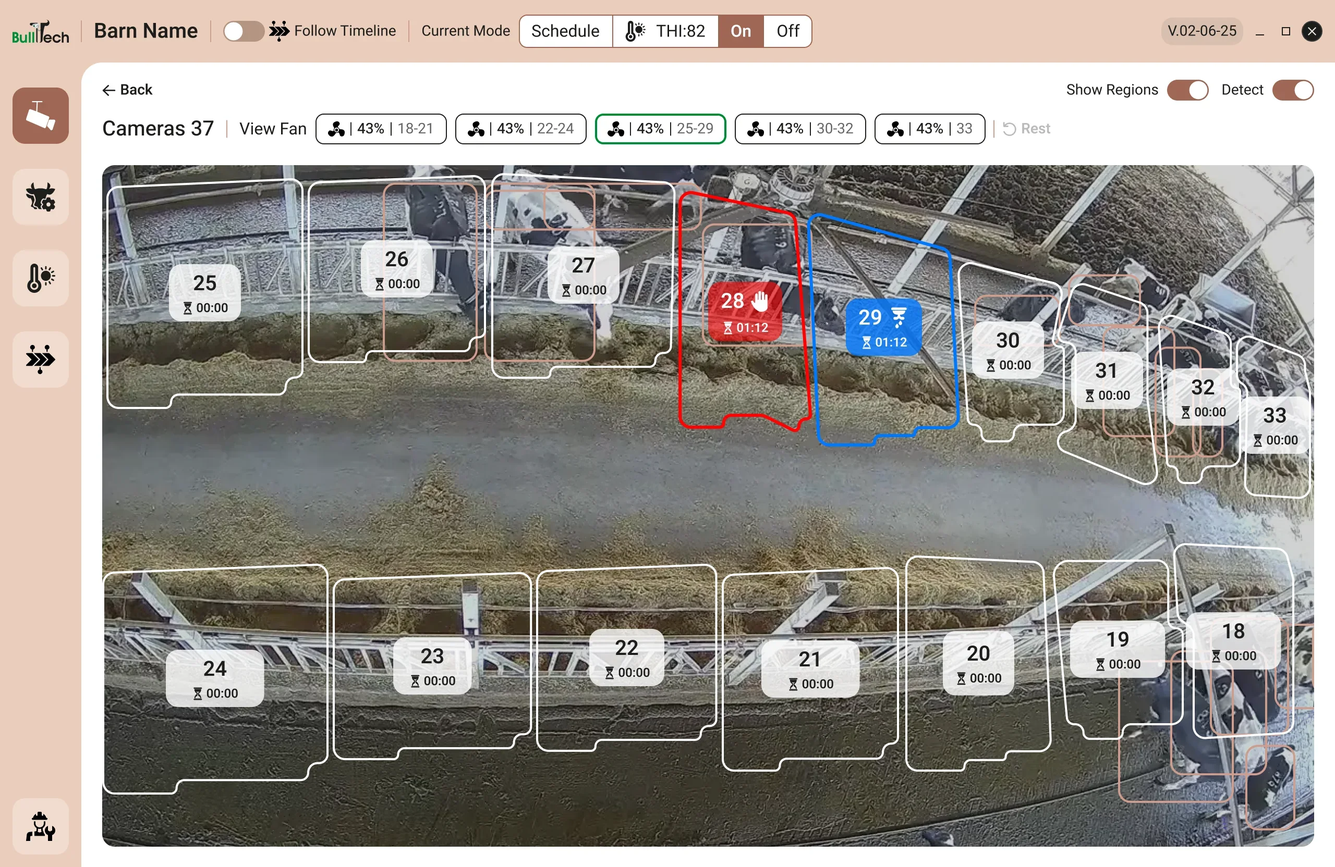
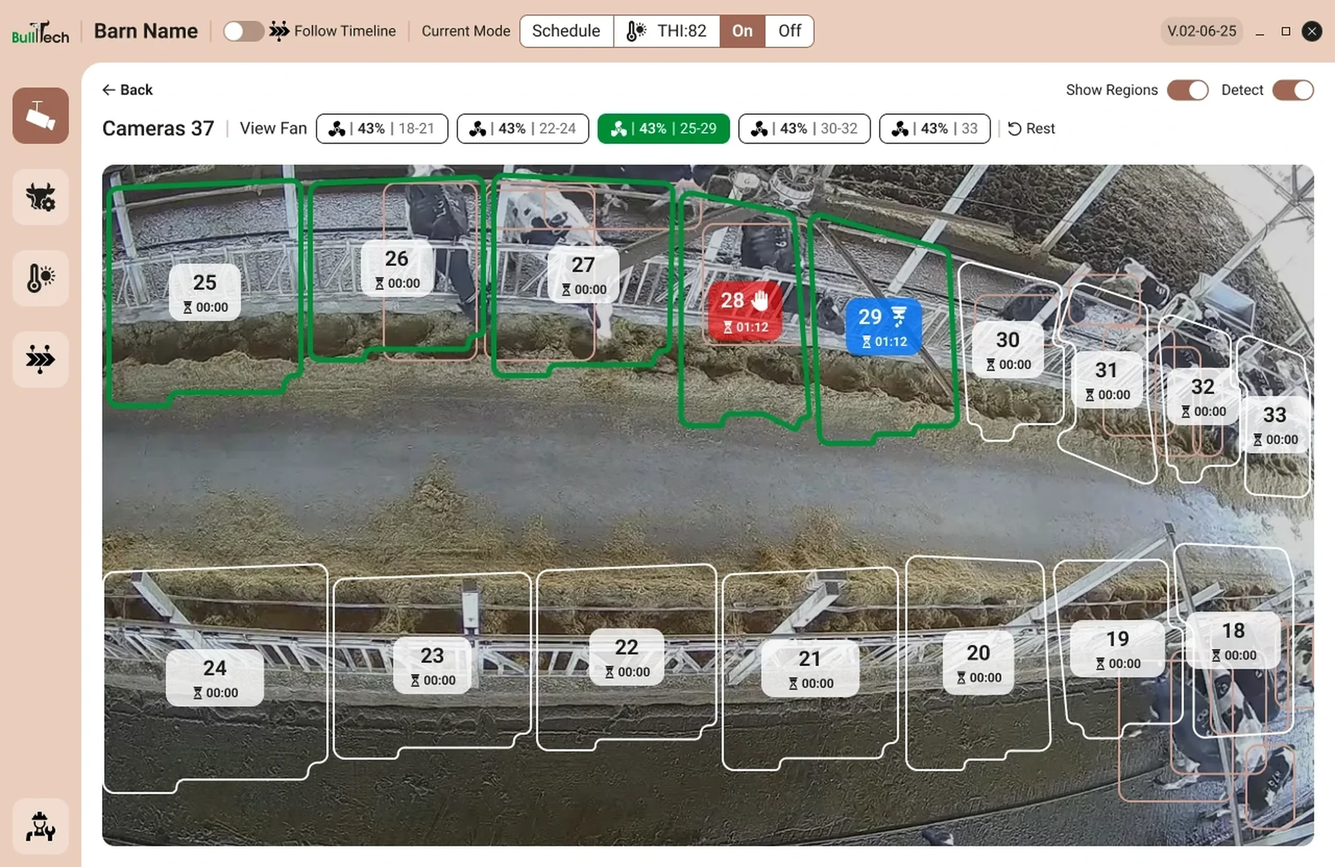
BullsEye tour: tooltip on hover and the selected-fan state
- Step 2: the cursor hovers spot 26 and its tooltip shows
- Step 3: after the click the fan chip turns green and its spots are outlined
- New sources s2-tip and s2-fansel (1x exports, hand cursor painted out)

Claude-Session: https://claude.ai/code/session_01Ck9wcgjXmSLkwFpzGGpNTu

diff --git a/projects/cooling.html b/projects/cooling.html
@@ -60,7 +60,7 @@
     </section>
 
     <!-- tour:start (generated by gen_bullseye.py) -->
-    <div class="flow" data-flow data-w="1280" data-h="832" data-timeline='[["hold", 0.5], ["move", 229, 358, 0.5], ["click", 1], ["step", 1], ["hold", 0.55], ["move", 632, 123, 0.5], ["click", 2], ["step", 2], ["hold", 0.65], ["move", 40, 188, 0.55], ["click", 3], ["step", 3], ["hold", 0.5], ["move", 940, 90, 0.5], ["click", 4], ["hold", 0.8]]' style="--flow-len:394" role="region" aria-label="Screen tour: a farmer’s path through BullsEye">
+    <div class="flow" data-flow data-w="1280" data-h="832" data-timeline='[["hold", 0.5], ["move", 229, 358, 0.5], ["click", 1], ["step", 1], ["hold", 0.45], ["move", 428, 268, 0.4], ["show", 2], ["hold", 0.55], ["move", 500, 205, 0.14], ["show", 1], ["move", 632, 123, 0.34], ["click", 3], ["step", 2], ["hold", 0.7], ["move", 40, 188, 0.55], ["click", 4], ["step", 3], ["hold", 0.5], ["move", 940, 90, 0.5], ["click", 5], ["hold", 0.8]]' style="--flow-len:463" role="region" aria-label="Screen tour: a farmer’s path through BullsEye">
       <div class="flow-pin">
         <div class="flow-inner">
           <div class="flow-stage">
@@ -77,7 +77,8 @@
               <div class="flow-view" style="aspect-ratio:1280 / 832">
               <img class="flow-shot is-on" src="../assets/work/cooling/tour/f-overview.webp" alt="Camera overview: the state of each cooling group and a tile for every camera" width="2560" height="1664">
               <img class="flow-shot" src="../assets/work/cooling/tour/f-live.webp" alt="A single camera: the image of the feed lane with a region for every feeding spot" width="2560" height="1664">
-              <img class="flow-shot" src="../assets/work/cooling/tour/f-fan.webp" alt="The same camera with one fan selected and the spots it covers highlighted" width="2560" height="1664">
+              <img class="flow-shot" src="../assets/work/cooling/tour/f-tip.webp" alt="The same camera with a tooltip over one feeding spot: fan speed, cows and time in the region" width="2560" height="1664">
+              <img class="flow-shot" src="../assets/work/cooling/tour/f-fan.webp" alt="The same camera with one fan selected and the spots it covers outlined in green" width="2560" height="1664">
               <img class="flow-shot" src="../assets/work/cooling/tour/f-basic.webp" alt="Group schedule in basic settings" width="2560" height="1664">
               <img class="flow-shot" src="../assets/work/cooling/tour/f-advanced.webp" alt="Group schedule with advanced settings switched on" width="2560" height="1664">
                 <span class="flow-cursor" aria-hidden="true" style="left:59.38%;top:73.32%"><svg viewBox="0 0 24 24"><path d="M5 2.5v17l4.6-4.3 2.9 6.6 2.7-1.2-2.9-6.5h6.2z" fill="#ffd23f" stroke="#141414" stroke-width="1.5" stroke-linejoin="round"/></svg></span>
@@ -93,7 +94,7 @@
             <li class="flow-step">
               <span class="label">02 / 04</span>
               <h3>Open a camera</h3>
-              <p>The live image comes first, and every feeding spot is a region on it.</p>
+              <p>The live image comes first, and every feeding spot is a region on it. Hover a spot for its details.</p>
             </li>
             <li class="flow-step">
               <span class="label">03 / 04</span>
@@ -197,7 +198,7 @@
               </figure>
               <figure>
                 <span class="ba-tag after">After</span>
-                <div class="case-cover is-framed unveil" style="--tint:#f3e3d8" data-zoom data-cursor="zoom"><img src="../assets/work/cooling/tour/f-fan.webp" alt="The new camera screen" width="2560" height="1664"></div>
+                <div class="case-cover is-framed unveil" style="--tint:#f3e3d8" data-zoom data-cursor="zoom"><img src="../assets/work/cooling/tour/f-live.webp" alt="The new camera screen" width="2560" height="1664"></div>
                 <figcaption class="reveal">Clear regions on the image, each with its state and timer.</figcaption>
               </figure>
             </div>

diff --git a/tools/gen_bullseye.py b/tools/gen_bullseye.py
@@ -15,14 +15,15 @@ SHOTS = [
   [('s1-base', 0, 0)] + [(f's1-card{i+1}', x, 124) for i, x in enumerate([110, 497.3, 884.7])] + [(f's1-cam{i+1}', x, y) for i, (x, y) in enumerate(tiles)]),
  ('f-live', 'A single camera: the image of the feed lane with a region for every feeding spot',
   [('s2-base', 0, 0), ('s2-top', 102, 165), ('s2-bottom', 98, 520)]),
- ('f-fan', 'The same camera with one fan selected and the spots it covers highlighted', [('s2-fan', 0, 0)]),
+ ('f-tip', 'The same camera with a tooltip over one feeding spot: fan speed, cows and time in the region', [('s2-tip', 0, 0)]),
+ ('f-fan', 'The same camera with one fan selected and the spots it covers outlined in green', [('s2-fansel', 0, 0)]),
  ('f-basic', 'Group schedule in basic settings', [('s3-basic', 0, 0)]),
  ('f-advanced', 'Group schedule with advanced settings switched on', [('s3-adv', 0, 0)]),
 ]
 # Steps: (name, text). The text beside the screen; one is visible at a time.
 STEPS = [
  ('Check', 'Every camera and every cooling group on one screen. A camera that is down stands out at once.'),
- ('Open a camera', 'The live image comes first, and every feeding spot is a region on it.'),
+ ('Open a camera', 'The live image comes first, and every feeding spot is a region on it. Hover a spot for its details.'),
  ('Check a fan', 'Pick a fan to see exactly which spots it covers.'),
  ('Adjust', 'Basic settings hold the times that change from day to day. Everything else is one toggle away.'),
 ]
@@ -35,10 +36,11 @@ STEPS = [
 CURSOR_START = (760, 610)
 UNIT = 78  # vh of scroll per timeline unit
 TIMELINE = [
- ('hold', .5), ('move', 229, 358, .5), ('click', 1), ('step', 1), ('hold', .55),
- ('move', 632, 123, .5), ('click', 2), ('step', 2), ('hold', .65),
- ('move', 40, 188, .55), ('click', 3), ('step', 3), ('hold', .5),
- ('move', 940, 90, .5), ('click', 4), ('hold', .8),
+ ('hold', .5), ('move', 229, 358, .5), ('click', 1), ('step', 1), ('hold', .45),
+ ('move', 428, 268, .4), ('show', 2), ('hold', .55),          # hover spot 26: tooltip
+ ('move', 500, 205, .14), ('show', 1), ('move', 632, 123, .34), ('click', 3), ('step', 2), ('hold', .7),
+ ('move', 40, 188, .55), ('click', 4), ('step', 3), ('hold', .5),
+ ('move', 940, 90, .5), ('click', 5), ('hold', .8),
 ]
 LENGTH = sum(t[-1] for t in TIMELINE if t[0] in ('hold', 'move'))
 
@@ -49,6 +51,7 @@ if '--images' in sys.argv:
         out = Image.new('RGB', (W * 2, H * 2), 'white')
         for f, x, y in layers:
             im = Image.open(d + f + '.webp').convert('RGBA')
+            if im.size == (W, H): im = im.resize((W * 2, H * 2), Image.LANCZOS)  # 1x source
             out.paste(im, (round(x * 2), round(y * 2)), im)
         out.save(d + name + '.webp', quality=84, method=6)
 
